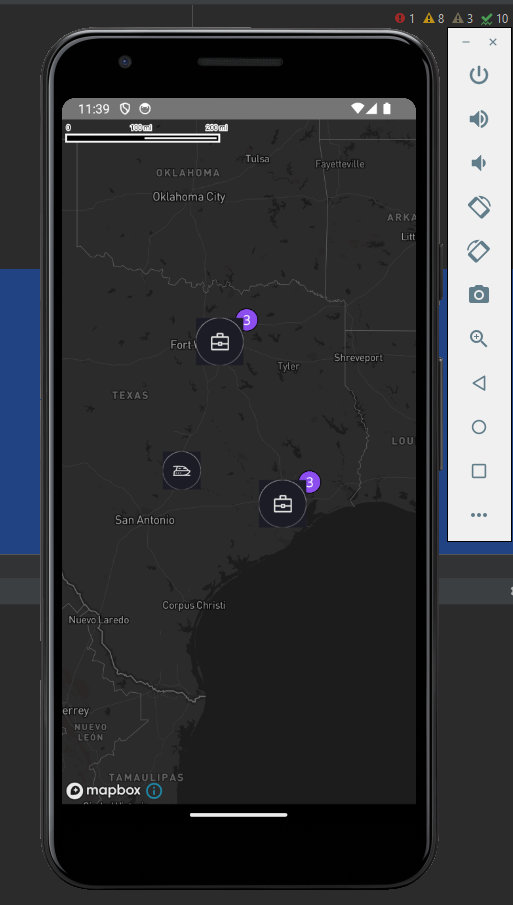
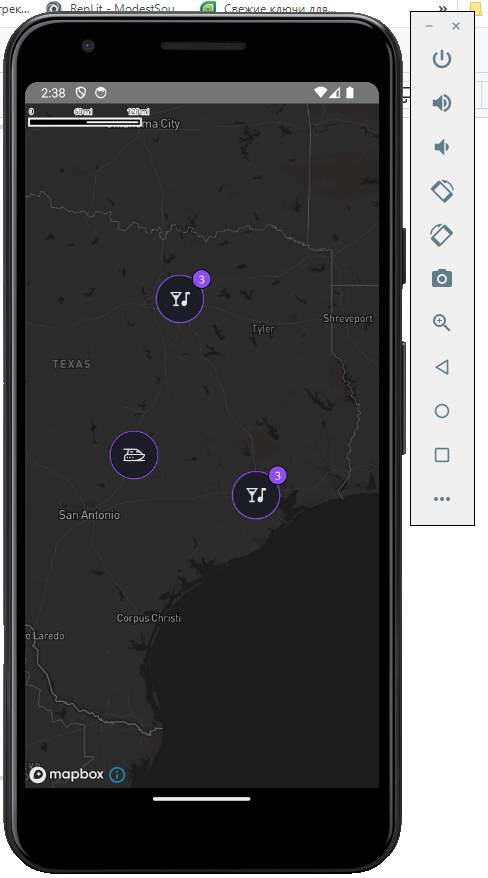
updated styles

diff --git a/App.jsx b/App.jsx
@@ -6,6 +6,8 @@ import { eventData } from "./src/eventsData";
 import udazzyEventImg11 from './src/assets/images/udazzy-event1.1.png'
 import udazzyEventImg12 from './src/assets/images/udazzy-event1.2.png'
 import Yacht from './src/assets/images/yacht.svg'
+import Party from './src/assets/images/party.svg'
+import NightClub from './src/assets/images/night-club.svg'
 
 Mapbox.setWellKnownTileServer('Mapbox');
 Mapbox.setAccessToken('pk.eyJ1Ijoibmlrb2xvczE5OTkiLCJhIjoiY2xlNDl3aWFrMDEwMDNwcGh4ajFqb3NybyJ9.yy0sE8uLdPENNF3v5_pnlA');
@@ -62,12 +64,41 @@ export default function MapScreen({ navigation }) {
                 }
               }}
             >
-              <Mapbox.Images images={{clusterImg: udazzyEventImg12, singleMarkerImg: udazzyEventImg11} } />
+              {/*<Mapbox.Images images={{clusterImg: udazzyEventImg12, singleMarkerImg: udazzyEventImg11} } />*/}
+
+              <Mapbox.Images>
+                <Mapbox.Image name="singleMarkerImage">
+                  <View style={styles.markerImageContainer} pointerEvents="none">
+                    <Yacht width={24} height={24} fill='#E4E4E4'/>
+                  </View>
+                </Mapbox.Image>
+                <Mapbox.Image name="clusterImg">
+                  <View style={styles.markerImageContainer} pointerEvents="none">
+                    <NightClub width={24} height={24} fill='#E4E4E4'/>
+                  </View>
+                </Mapbox.Image>
+              </Mapbox.Images>
+
+              {/*Clustered marker image*/}
+              <Mapbox.SymbolLayer
+                  id="clusteredMarkersImage"
+                  filter={['has', 'point_count']}
+                  style={styles.clusteredMarkersImage}
+              />
+              {/*Clustered marker image circle*/}
+              <Mapbox.CircleLayer
+                  id="clusteredMarkerImageCircle"
+                  belowLayerID="clusteredMarkersImage"
+                  filter={['has', 'point_count']}
+                  style={styles.clusteredMarkersImageCircle}
+              />
+              {/*Cluster marker count*/}
               <Mapbox.SymbolLayer
                 id="clusteredMarkerCount"
                 style={styles.markerCount}
                 filter={['has', 'point_count']}
               />
+              {/*Cluster marker count circle*/}
               <Mapbox.CircleLayer
                 id="clusteredMarkersCircle"
                 belowLayerID="clusteredMarkerCount"
@@ -75,22 +106,19 @@ export default function MapScreen({ navigation }) {
                 style={styles.markerCountCircle}
               />
 
-              <Mapbox.SymbolLayer
-                id="clusteredMarkersImage"
-                filter={['has', 'point_count']}
-                style={styles.clusterImage}
-              />
 
+              {/*Single marker image*/}
               <Mapbox.SymbolLayer
-                id="singleMarker"
-                filter={['!', ['has', 'point_count']]}
-                style={{
-                  iconImage: 'singleMarkerImg',
-                  iconSize: 0.4,
-                  // iconOpacity: 1,
-                  // iconAllowOverlap: true,
-                  // iconHaloBlur: 0
-                }}
+                  id="singleMarkerImage"
+                  filter={['!', ['has', 'point_count']]}
+                  style={styles.singleMarkerImage}
+              />
+              {/*Single marker image circle*/}
+              <Mapbox.CircleLayer
+                  id="singleMarkerImageCircle"
+                  belowLayerID="singleMarkerImage"
+                  filter={['!', ['has', 'point_count']]}
+                  style={styles.singleMarkerImageCircle}
               />
 
             </Mapbox.ShapeSource>
@@ -114,38 +142,55 @@ const styles = StyleSheet.create({
   map: {
     flex: 1
   },
-  markerContainer: {
+  markerImageContainer: {
     width: 50,
     height: 50,
     borderRadius: 50,
-    backgroundColor: ["#1C1B27", "#1D1C28"],
+    backgroundColor: "#1C1B27",
     justifyContent: "center",
-    alignItems: "center"
-    // borderWidth: 1,
-    // borderColor: '#8c4fef'
+    alignItems: "center",
   },
-  clusterImage: {
+  clusteredMarkersImage: {
     iconImage: 'clusterImg',
-    iconSize: 0.5,
+    //iconSize: 0.5,
     iconAllowOverlap: true,
-    iconIgnorePlacement: true
+    iconIgnorePlacement: false,
   },
-
+  clusteredMarkersImageCircle: {
+    circlePitchAlignment: 'map',
+    circleRadius: 26,
+    circleStrokeWidth: 1,
+    circleStrokeColor: '#8c4fef',
+    circleOpacity: 0
+  },
   markerCount: {
     textField: '{point_count}',
-    textSize: 15,
+    textSize: 12,
     textPitchAlignment: 'map',
-    textOffset: [2, -1.6],
+    textOffset: [2, -1.8],
     textColor: 'white',
     textAllowOverlap: true,
   },
   markerCountCircle: {
     circlePitchAlignment: 'map',
     circleColor: '#8c4fef',
-    circleRadius: 12,
+    circleRadius: 10,
     circleStrokeWidth: 1,
     circleStrokeColor: 'black',
-    circleTranslate: [30, -24]
+    circleTranslate: [24, -22]
+  },
+
+  singleMarkerImage: {
+    iconImage: 'singleMarkerImage',
+    iconAllowOverlap: true,
+    iconIgnorePlacement: true
+  },
+  singleMarkerImageCircle: {
+    circlePitchAlignment: 'map',
+    circleRadius: 26,
+    circleStrokeWidth: 1,
+    circleStrokeColor: '#8c4fef',
+    circleOpacity: 1
   },
 
 });

diff --git a/README.md b/README.md
@@ -2,6 +2,7 @@
 # Implementation of markers clustering with react-native and mapbox (rnmapbox)
 ***
 ## https://github.com/rnmapbox/maps
+## https://github.com/rnmapbox/maps/blob/11fe88d7dc6f93d2325b724a381fb5ffadc88211/docs/SymbolLayer.md#iconignoreplacement
 
 ## To start locally:
 - open terminal;
@@ -10,3 +11,4 @@
 ***
 ![img.png](img.png)
 ![img_1.png](img_1.png)
+![img_2.png](img_2.png)
